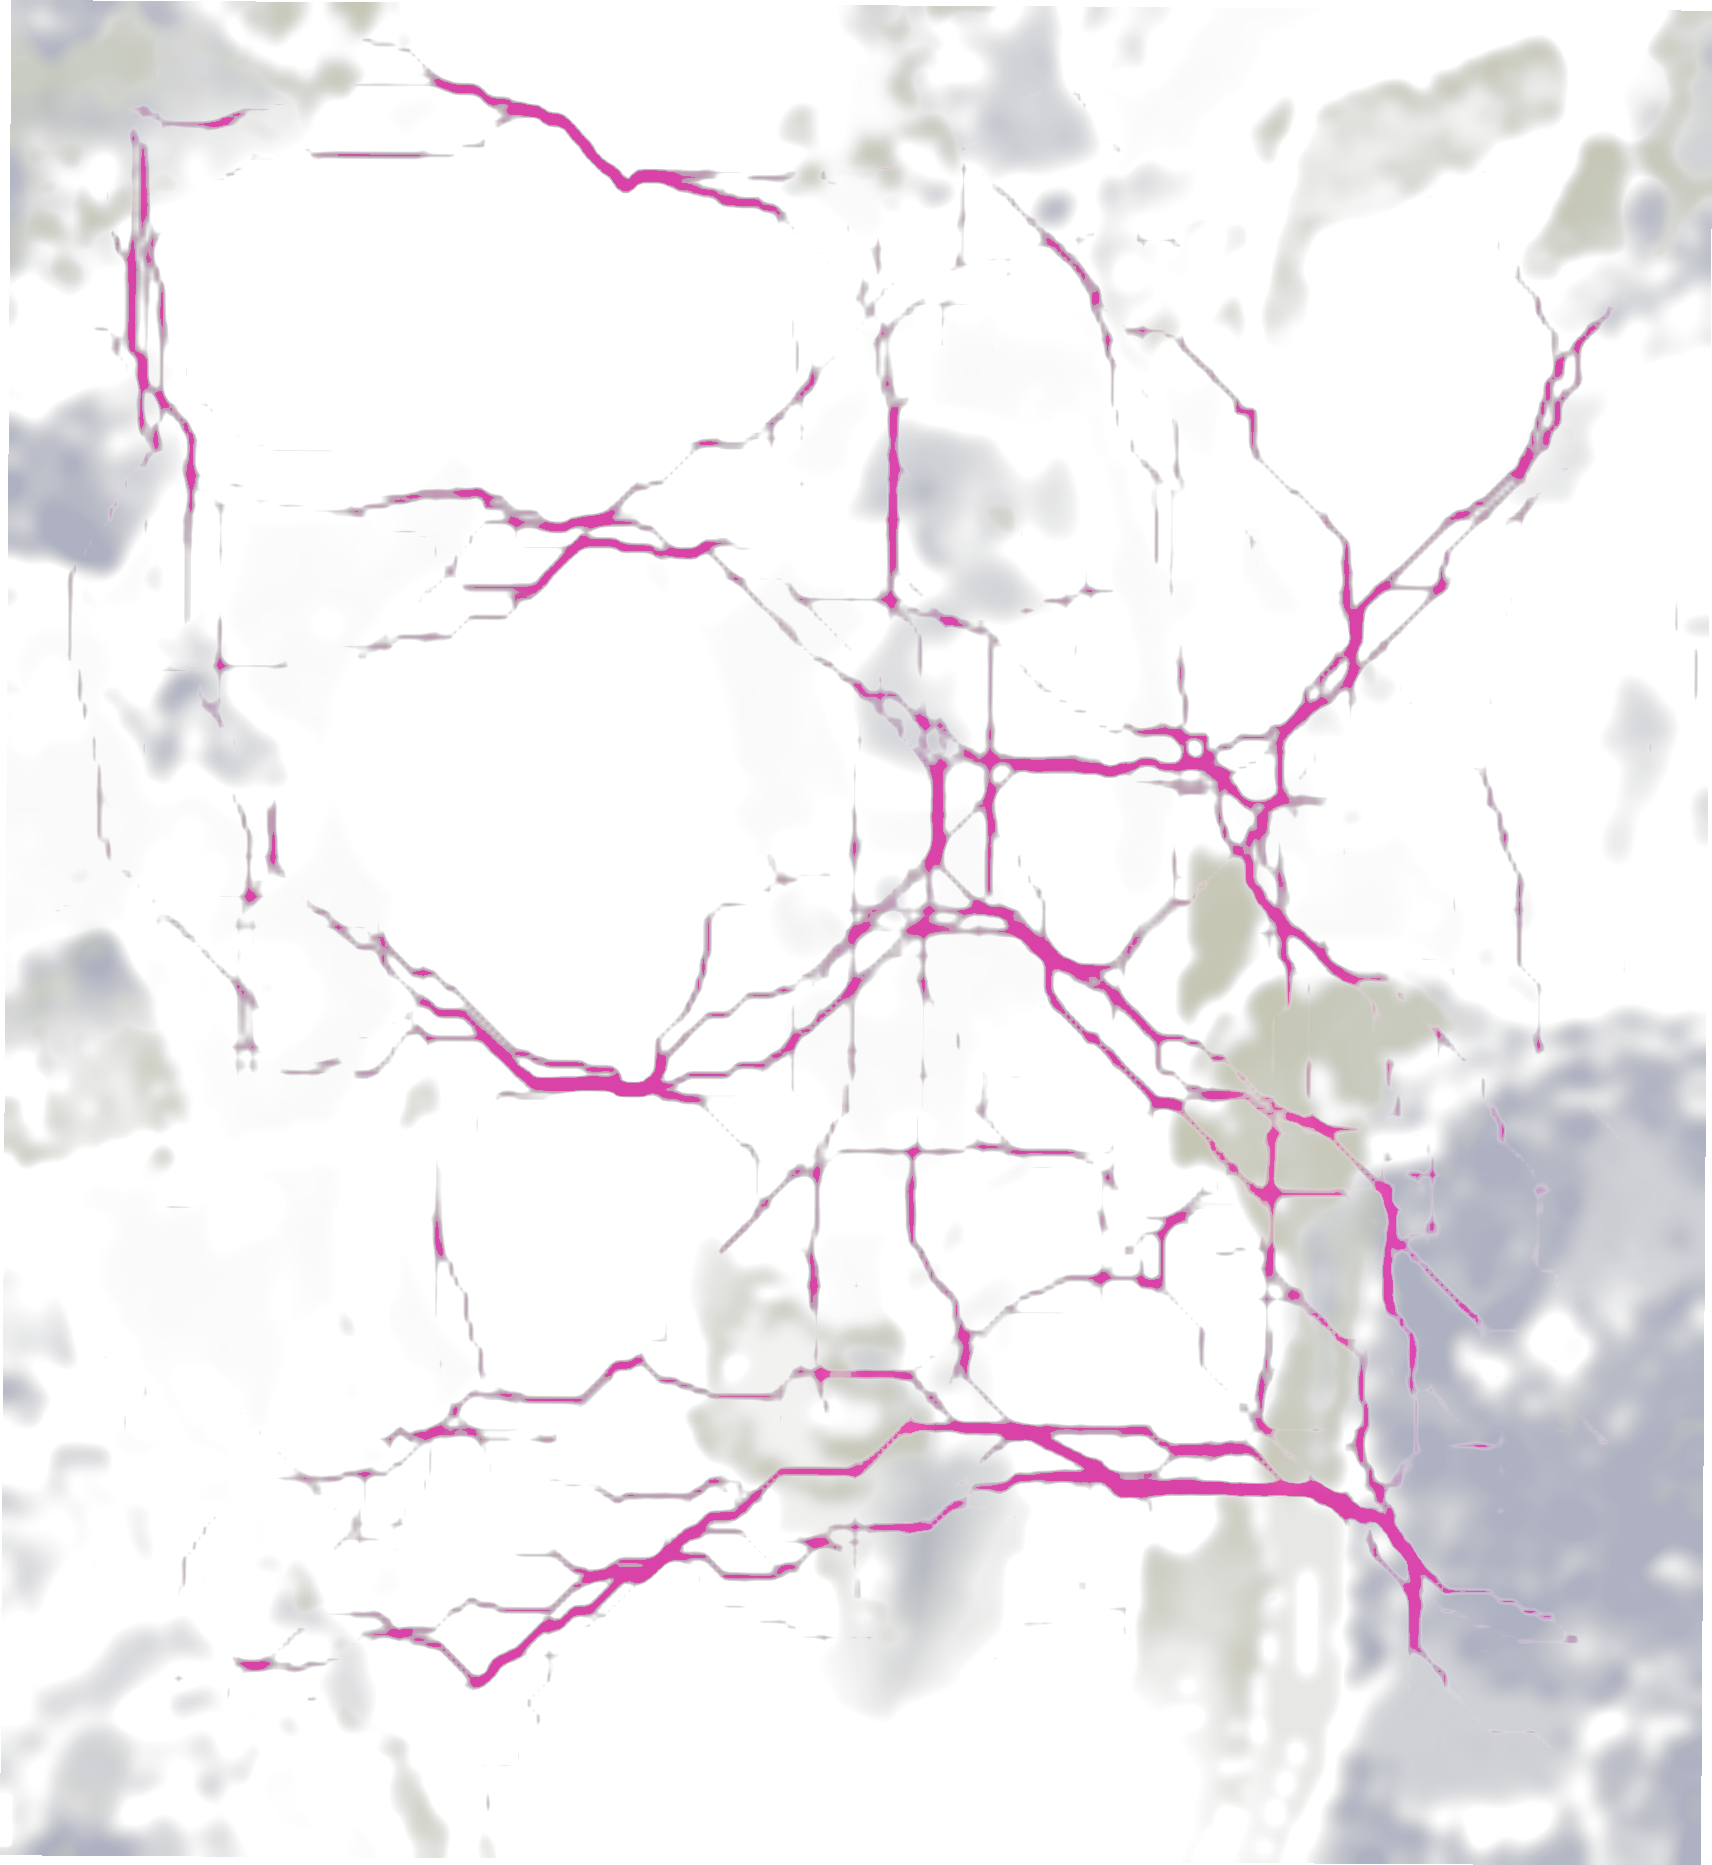
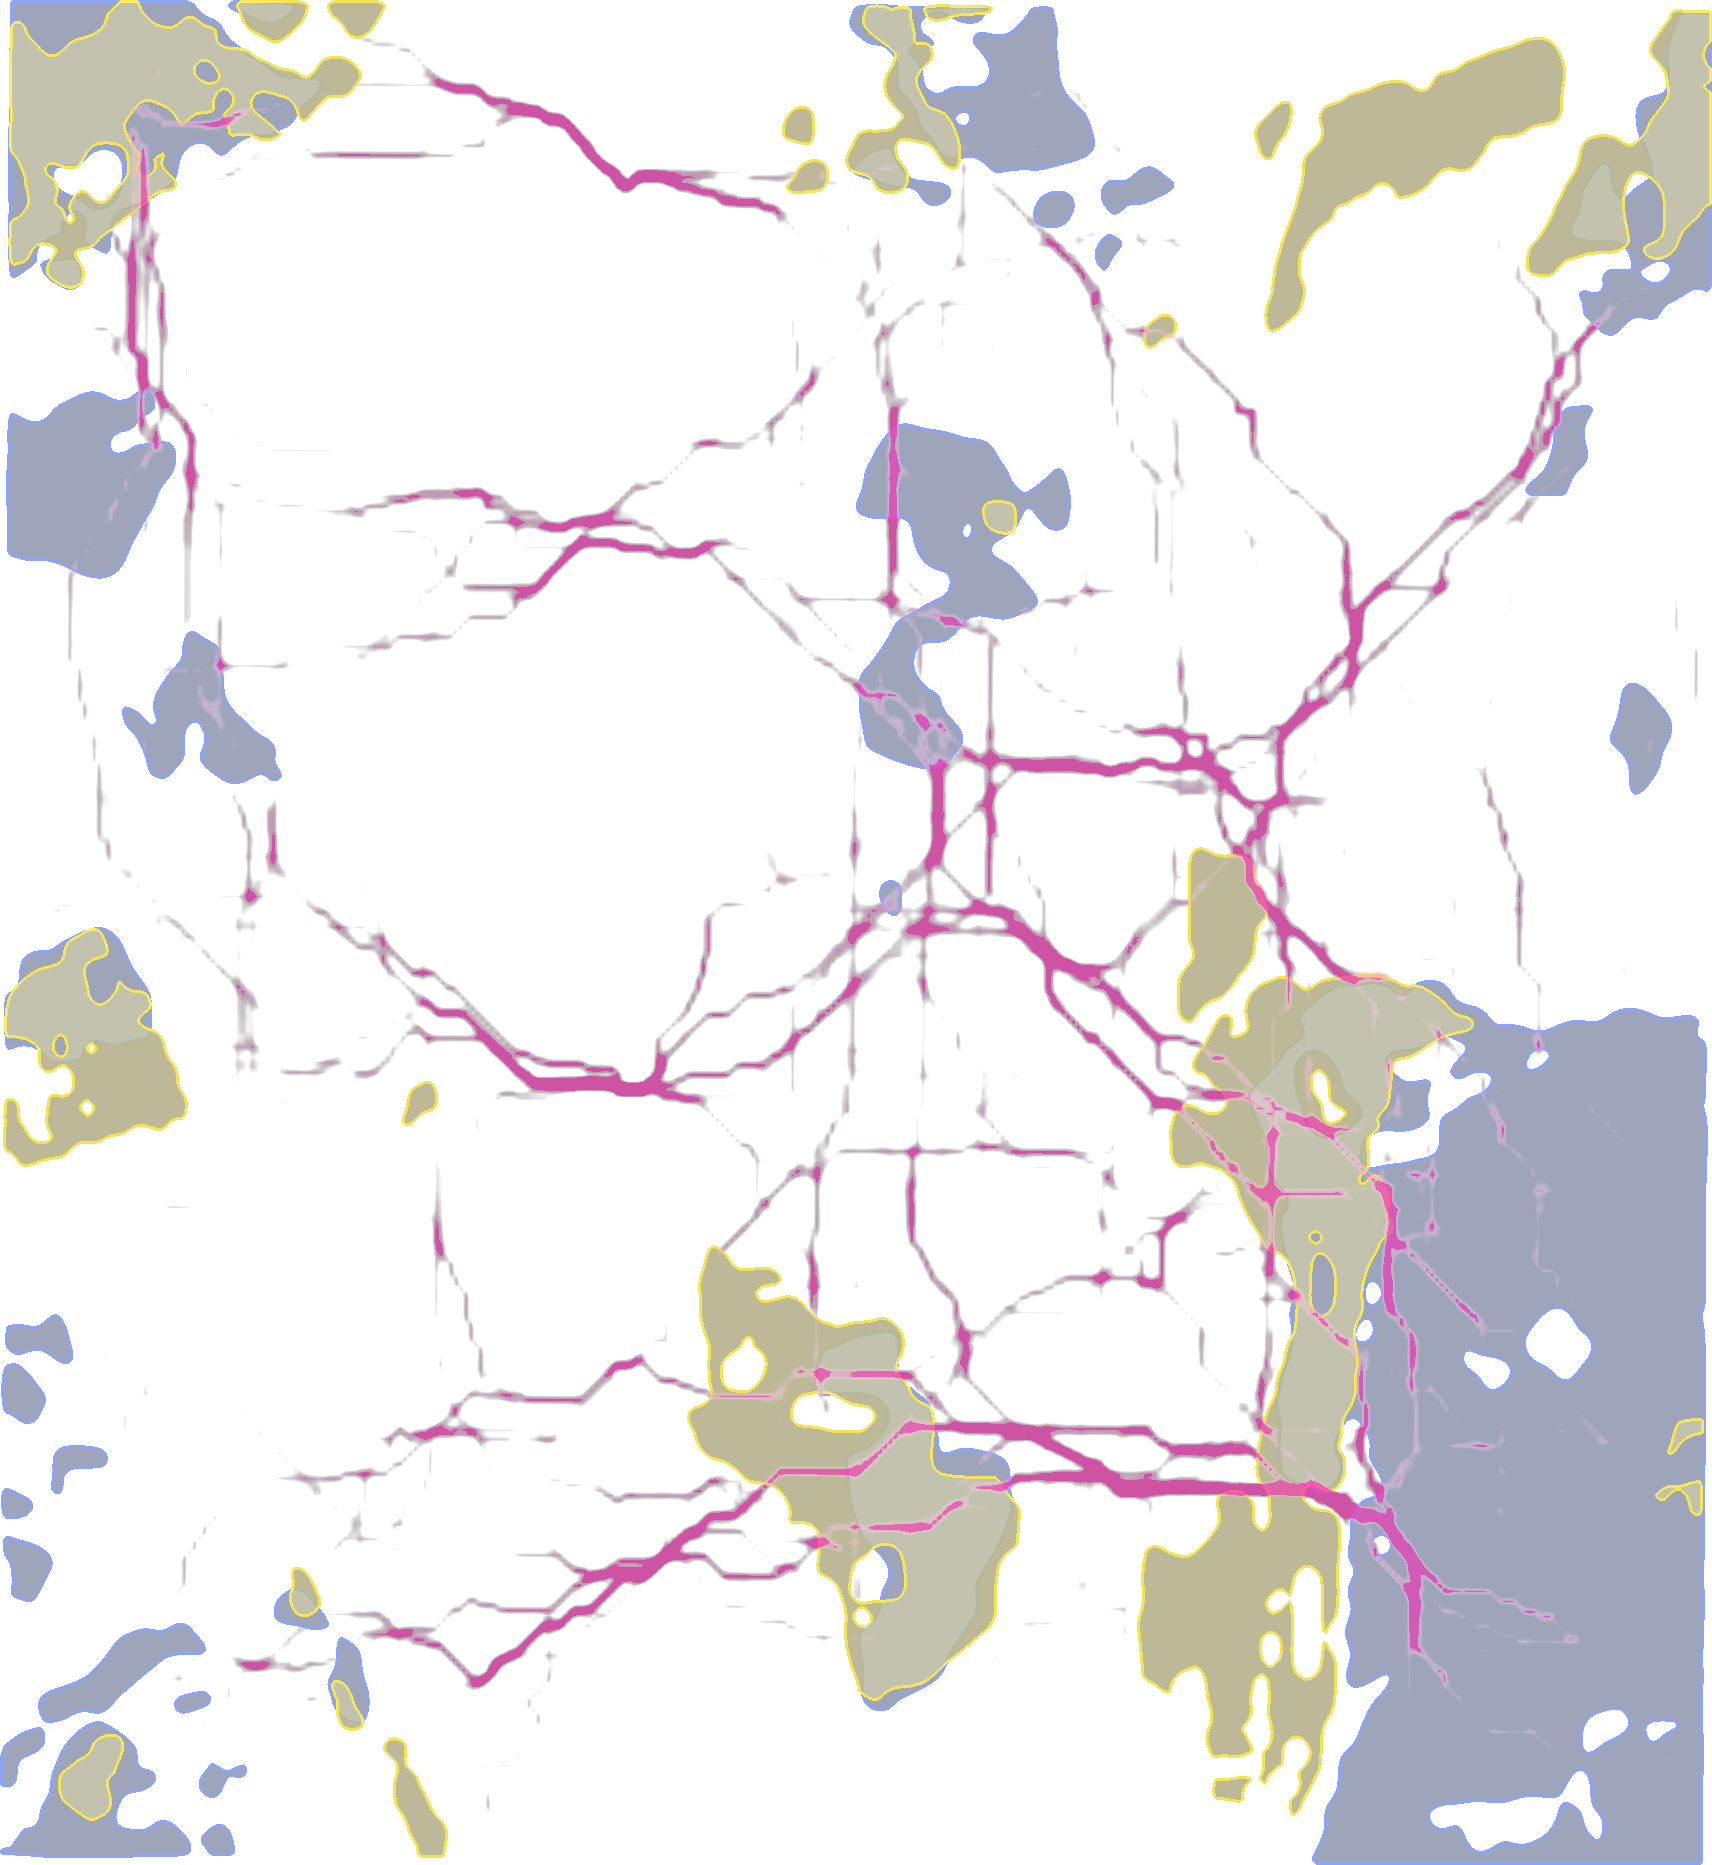
Viltstigar: clearer bedding and feeding zones

diff --git a/sw.js b/sw.js
@@ -1,10 +1,10 @@
-// Offline support for the family map (filled in by scripts/build_site.py: ef70d20d62, 90237ebee2, {"app": ["./", "version.json", "manifest.webmanifest", "firebase-config.js", "icon-180.png", "icon-192.png", "icon-512.png", "app.css?v=ef70d20d62", "app.js?v=ef70d20d62", "geo.js?v=ef70d20d62", "i18n.js?v=ef70d20d62", "jakt.js?v=ef70d20d62", "maplibre-gl.css?v=ef70d20d62", "view.js?v=ef70d20d62", "wind.js?v=ef70d20d62", "fb.js?v=ef70d20d62"], "ext": ["https://cdnjs.cloudflare.com/ajax/libs/maplibre-gl/5.24.0/maplibre-gl.js", "https://fonts.googleapis.com/css2?family=Barlow+Condensed:wght@600;700&family=Barlow+Semi+Condensed:wght@400;500;600;700&family=IBM+Plex+Mono:wght@400;500&display=swap", "https://www.gstatic.com/firebasejs/11.0.2/firebase-app.js", "https://www.gstatic.com/firebasejs/11.0.2/firebase-auth.js", "https://www.gstatic.com/firebasejs/11.0.2/firebase-firestore.js"], "data": ["data/areas.json", "data/alnaryd/contours.geojson", "data/alnaryd/drainage.geojson", "data/alnaryd/forest_0_0.webp", "data/alnaryd/game.geojson", "data/alnaryd/game_0_0.png", "data/alnaryd/height_0_0.webp", "data/alnaryd/info.png", "data/alnaryd/manifest.json", "data/alnaryd/osm.geojson", "data/alnaryd/quiet_dry_0_0.webp", "data/alnaryd/quiet_wet_0_0.webp", "data/alnaryd/relief_0_0.webp", "data/alnaryd/reserves.geojson", "data/alnaryd/steep_0_0.png", "data/alnaryd/wet_0_0.png", "data/alnaryd/wind.json", "data/alnaryd/wind.png", "glyphs/0-255.txt", "glyphs/256-511.txt"]}, [[15.398225, 56.334191, 15.465921999999999, 56.374908, 8, 15]]).
+// Offline support for the family map (filled in by scripts/build_site.py: 87a3a1a643, 87e53d5d9d, {"app": ["./", "version.json", "manifest.webmanifest", "firebase-config.js", "icon-180.png", "icon-192.png", "icon-512.png", "app.css?v=87a3a1a643", "app.js?v=87a3a1a643", "geo.js?v=87a3a1a643", "i18n.js?v=87a3a1a643", "jakt.js?v=87a3a1a643", "maplibre-gl.css?v=87a3a1a643", "view.js?v=87a3a1a643", "wind.js?v=87a3a1a643", "fb.js?v=87a3a1a643"], "ext": ["https://cdnjs.cloudflare.com/ajax/libs/maplibre-gl/5.24.0/maplibre-gl.js", "https://fonts.googleapis.com/css2?family=Barlow+Condensed:wght@600;700&family=Barlow+Semi+Condensed:wght@400;500;600;700&family=IBM+Plex+Mono:wght@400;500&display=swap", "https://www.gstatic.com/firebasejs/11.0.2/firebase-app.js", "https://www.gstatic.com/firebasejs/11.0.2/firebase-auth.js", "https://www.gstatic.com/firebasejs/11.0.2/firebase-firestore.js"], "data": ["data/areas.json", "data/alnaryd/contours.geojson", "data/alnaryd/drainage.geojson", "data/alnaryd/forest_0_0.webp", "data/alnaryd/game.geojson", "data/alnaryd/game_0_0.png", "data/alnaryd/height_0_0.webp", "data/alnaryd/info.png", "data/alnaryd/manifest.json", "data/alnaryd/osm.geojson", "data/alnaryd/quiet_dry_0_0.webp", "data/alnaryd/quiet_wet_0_0.webp", "data/alnaryd/relief_0_0.webp", "data/alnaryd/reserves.geojson", "data/alnaryd/steep_0_0.png", "data/alnaryd/wet_0_0.png", "data/alnaryd/wind.json", "data/alnaryd/wind.png", "glyphs/0-255.txt", "glyphs/256-511.txt"]}, [[15.398225, 56.334191, 15.465921999999999, 56.374908, 8, 15]]).
 // The app, the map data for the hunting ground and the elevation tiles around it are stored on the phone,
 // so the map, compass, wind and your own position work without coverage. Firebase queues writes by itself.
-const VER = "ef70d20d62";
-const APP = "app-" + VER, DATA = "data-90237ebee2", DEM = "dem-v1", EXT = "ext-v1";
+const VER = "87a3a1a643";
+const APP = "app-" + VER, DATA = "data-87e53d5d9d", DEM = "dem-v1", EXT = "ext-v1";
 const EXT_HOSTS = ["cdnjs.cloudflare.com", "cdn.jsdelivr.net", "www.gstatic.com", "fonts.googleapis.com", "fonts.gstatic.com"];
-const PRECACHE = {"app": ["./", "version.json", "manifest.webmanifest", "firebase-config.js", "icon-180.png", "icon-192.png", "icon-512.png", "app.css?v=ef70d20d62", "app.js?v=ef70d20d62", "geo.js?v=ef70d20d62", "i18n.js?v=ef70d20d62", "jakt.js?v=ef70d20d62", "maplibre-gl.css?v=ef70d20d62", "view.js?v=ef70d20d62", "wind.js?v=ef70d20d62", "fb.js?v=ef70d20d62"], "ext": ["https://cdnjs.cloudflare.com/ajax/libs/maplibre-gl/5.24.0/maplibre-gl.js", "https://fonts.googleapis.com/css2?family=Barlow+Condensed:wght@600;700&family=Barlow+Semi+Condensed:wght@400;500;600;700&family=IBM+Plex+Mono:wght@400;500&display=swap", "https://www.gstatic.com/firebasejs/11.0.2/firebase-app.js", "https://www.gstatic.com/firebasejs/11.0.2/firebase-auth.js", "https://www.gstatic.com/firebasejs/11.0.2/firebase-firestore.js"], "data": ["data/areas.json", "data/alnaryd/contours.geojson", "data/alnaryd/drainage.geojson", "data/alnaryd/forest_0_0.webp", "data/alnaryd/game.geojson", "data/alnaryd/game_0_0.png", "data/alnaryd/height_0_0.webp", "data/alnaryd/info.png", "data/alnaryd/manifest.json", "data/alnaryd/osm.geojson", "data/alnaryd/quiet_dry_0_0.webp", "data/alnaryd/quiet_wet_0_0.webp", "data/alnaryd/relief_0_0.webp", "data/alnaryd/reserves.geojson", "data/alnaryd/steep_0_0.png", "data/alnaryd/wet_0_0.png", "data/alnaryd/wind.json", "data/alnaryd/wind.png", "glyphs/0-255.txt", "glyphs/256-511.txt"]};
+const PRECACHE = {"app": ["./", "version.json", "manifest.webmanifest", "firebase-config.js", "icon-180.png", "icon-192.png", "icon-512.png", "app.css?v=87a3a1a643", "app.js?v=87a3a1a643", "geo.js?v=87a3a1a643", "i18n.js?v=87a3a1a643", "jakt.js?v=87a3a1a643", "maplibre-gl.css?v=87a3a1a643", "view.js?v=87a3a1a643", "wind.js?v=87a3a1a643", "fb.js?v=87a3a1a643"], "ext": ["https://cdnjs.cloudflare.com/ajax/libs/maplibre-gl/5.24.0/maplibre-gl.js", "https://fonts.googleapis.com/css2?family=Barlow+Condensed:wght@600;700&family=Barlow+Semi+Condensed:wght@400;500;600;700&family=IBM+Plex+Mono:wght@400;500&display=swap", "https://www.gstatic.com/firebasejs/11.0.2/firebase-app.js", "https://www.gstatic.com/firebasejs/11.0.2/firebase-auth.js", "https://www.gstatic.com/firebasejs/11.0.2/firebase-firestore.js"], "data": ["data/areas.json", "data/alnaryd/contours.geojson", "data/alnaryd/drainage.geojson", "data/alnaryd/forest_0_0.webp", "data/alnaryd/game.geojson", "data/alnaryd/game_0_0.png", "data/alnaryd/height_0_0.webp", "data/alnaryd/info.png", "data/alnaryd/manifest.json", "data/alnaryd/osm.geojson", "data/alnaryd/quiet_dry_0_0.webp", "data/alnaryd/quiet_wet_0_0.webp", "data/alnaryd/relief_0_0.webp", "data/alnaryd/reserves.geojson", "data/alnaryd/steep_0_0.png", "data/alnaryd/wet_0_0.png", "data/alnaryd/wind.json", "data/alnaryd/wind.png", "glyphs/0-255.txt", "glyphs/256-511.txt"]};
 const DEM_BOXES = [[15.398225, 56.334191, 15.465921999999999, 56.374908, 8, 15]];   // [west, south, east, north, minZoom, maxZoom] around each hunting ground
 const DEM_URL = "https://tiles.mapterhorn.com/";
 

diff --git a/index.html b/index.html
@@ -13,17 +13,17 @@
 <link rel="apple-touch-icon" href="icon-180.png">
 <link rel="icon" href="icon-192.png">
 <style>:root{padding-top:env(safe-area-inset-top,0px);padding-bottom:env(safe-area-inset-bottom,0px)}</style>
-<script>window.APP_VERSION = "ef70d20d62";</script>
-<script src="firebase-config.js?v=ef70d20d62"></script>
-<script type="module" src="fb.js?v=ef70d20d62"></script>
+<script>window.APP_VERSION = "87a3a1a643";</script>
+<script src="firebase-config.js?v=87a3a1a643"></script>
+<script type="module" src="fb.js?v=87a3a1a643"></script>
 </head>
 <body>
 <title>Alnaryd Hunting Map</title>
 <link rel="preconnect" href="https://fonts.googleapis.com">
 <link rel="preconnect" href="https://fonts.gstatic.com" crossorigin>
 <link rel="stylesheet" href="https://fonts.googleapis.com/css2?family=Barlow+Condensed:wght@600;700&family=Barlow+Semi+Condensed:wght@400;500;600;700&family=IBM+Plex+Mono:wght@400;500&display=swap">
-<link rel="stylesheet" href="maplibre-gl.css?v=ef70d20d62">
-<link rel="stylesheet" href="app.css?v=ef70d20d62">
+<link rel="stylesheet" href="maplibre-gl.css?v=87a3a1a643">
+<link rel="stylesheet" href="app.css?v=87a3a1a643">
 
 <script>document.documentElement.dataset.theme = "dark";</script>
 <div id="app" data-sheet="peek">
@@ -69,7 +69,7 @@
           <li><label><input type="checkbox" id="ov-game" data-ov="game"><span class="sw sw-game"></span>Game trails <small>model</small></label>
             <div class="game-legend" id="gameLegend" hidden>
               <span><i style="background:#ff1fb4"></i>Most likely trails</span><span><i style="background:#ff8fdc"></i>Other likely trails</span>
-              <span><i style="background:#3b5bdb;opacity:.7"></i>Bedding cover</span><span><i style="background:#e8f03a;opacity:.8"></i>Feeding</span>
+              <span><i class="zone" style="background:rgba(59,91,219,.55);border-color:#8fa8ff"></i>Bedding cover</span><span><i class="zone" style="background:rgba(232,210,26,.45);border-color:#fff04d"></i>Feeding</span>
               <small>Modelled from terrain, forest and roads, not from observations. Compare with your sightings.</small>
             </div></li>
           <li><label><input type="checkbox" id="ov-quiet" data-ov="quiet"><span class="sw sw-quiet"></span>Quiet ground <small>for stalking</small></label>
@@ -483,12 +483,12 @@
 </div>
 
 <script src="https://cdnjs.cloudflare.com/ajax/libs/maplibre-gl/5.24.0/maplibre-gl.js"></script>
-<script src="i18n.js?v=ef70d20d62"></script>
-<script src="geo.js?v=ef70d20d62"></script>
-<script src="view.js?v=ef70d20d62"></script>
-<script src="wind.js?v=ef70d20d62"></script>
-<script src="jakt.js?v=ef70d20d62"></script>
-<script src="app.js?v=ef70d20d62"></script>
+<script src="i18n.js?v=87a3a1a643"></script>
+<script src="geo.js?v=87a3a1a643"></script>
+<script src="view.js?v=87a3a1a643"></script>
+<script src="wind.js?v=87a3a1a643"></script>
+<script src="jakt.js?v=87a3a1a643"></script>
+<script src="app.js?v=87a3a1a643"></script>
 
 </body>
 </html>

diff --git a/app.css b/app.css
@@ -586,6 +586,7 @@ html .safety:not([hidden]) ~ .mystand { top: calc(140px + env(safe-area-inset-to
 .seg button[aria-pressed="true"] { background: var(--accent); color: #fff; }
 .game-legend span { display: flex; align-items: center; gap: 8px; }
 .game-legend i { width: 18px; height: 6px; border-radius: 3px; flex: none; }
+.game-legend i.zone { height: 12px; border: 2px solid; box-sizing: border-box; }
 
 
 /* OwnTracks setup */
